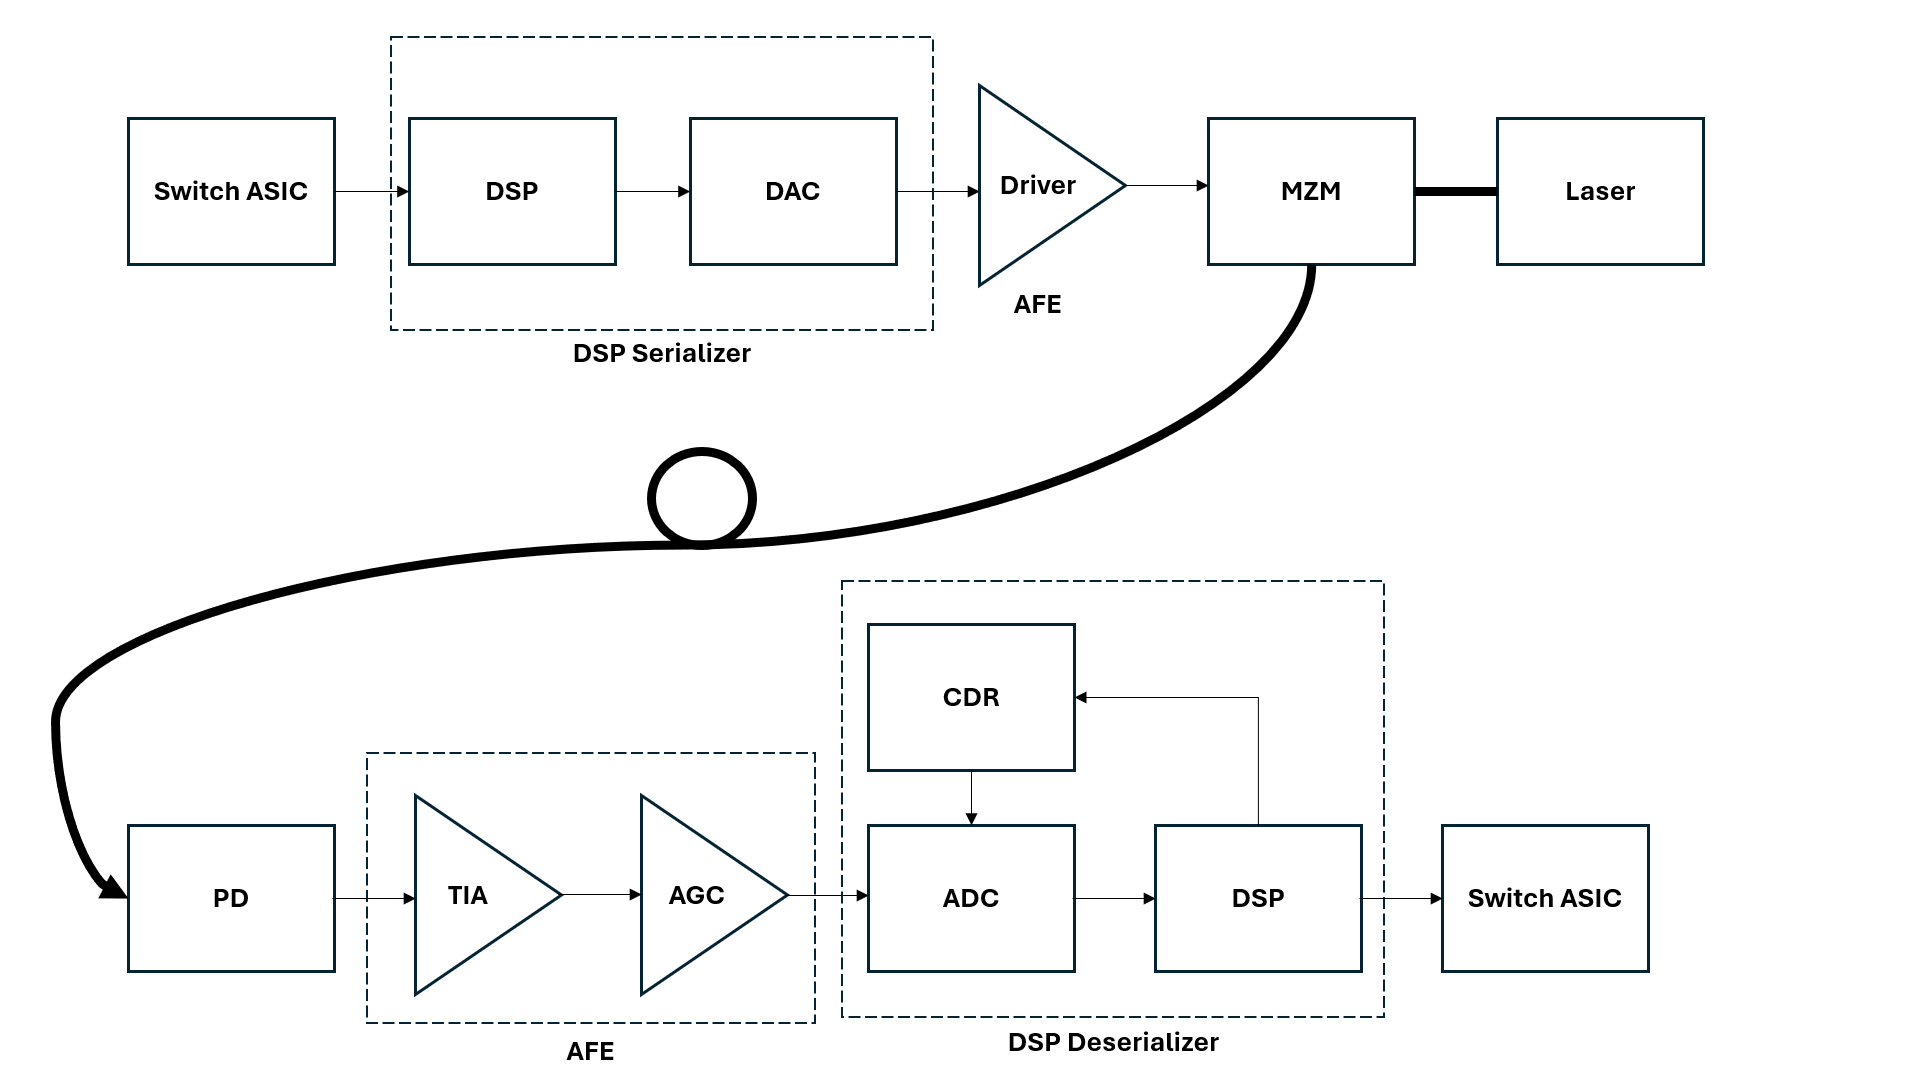
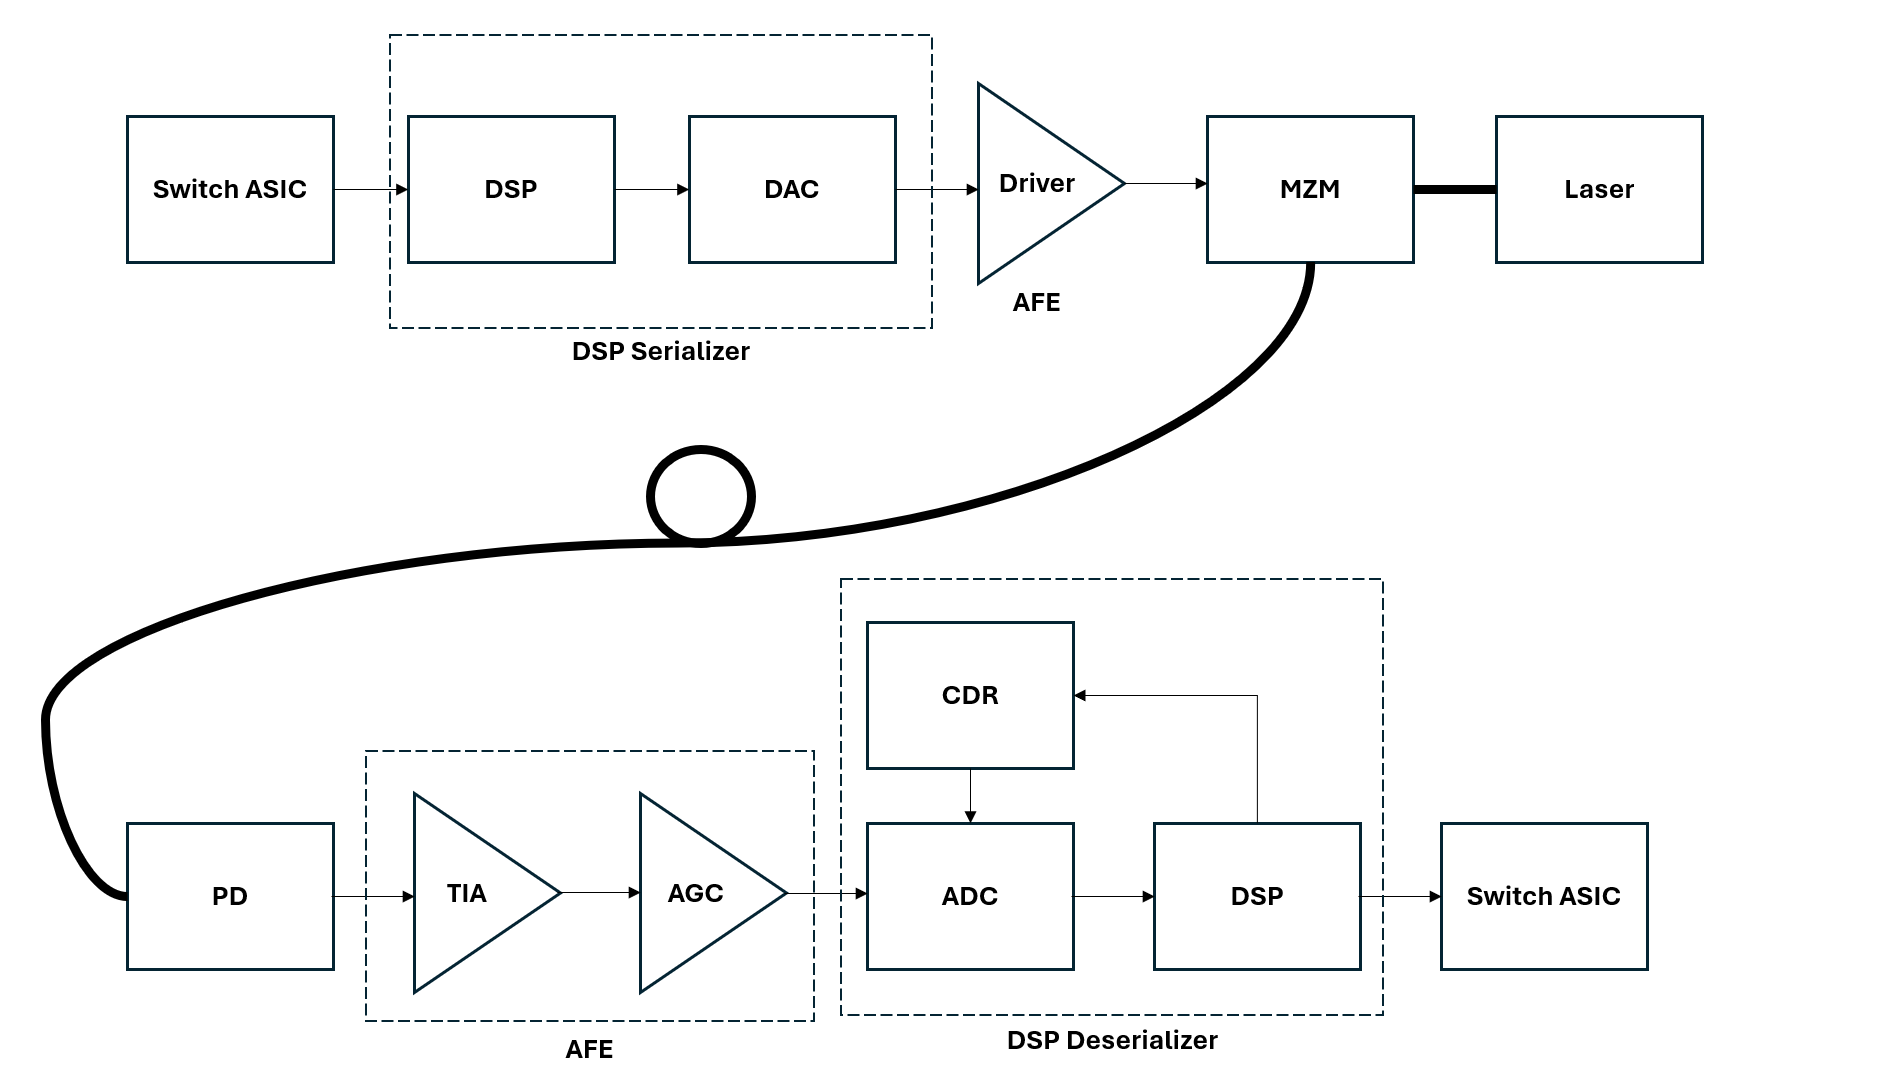
Minor fixes for render

diff --git a/README.md b/README.md
@@ -20,7 +20,8 @@ This repository contains the system architecture and open-source EDA tapeout fil
 ## 2. The Data Journey: The Case for EPCD
 To understand why this specific SiGe architecture is required, one must trace the complete lifecycle of the data through the network rack.
 
-![ADC: Analog-to-digital converter, AFE: Analog Front-End, AGC: Automatic Gain Control, ASIC: Application-specific integrated circuit, CDR: Clock data recovery, DAC: Digital-to-analog converter, DSP: Digital signal processing, MZM: Mach–Zehnder modulator, PD: Photodiode, TIA: Transimpedance amplifier](./static/OC_system.png)
+![Fig1_Architecture](./static/OC_system.png)
+*Figure 1: ADC: Analog-to-digital converter, AFE: Analog Front-End, AGC: Automatic Gain Control, ASIC: Application-specific integrated circuit, CDR: Clock data recovery, DAC: Digital-to-analog converter, DSP: Digital signal processing, MZM: Mach–Zehnder modulator, PD: Photodiode, TIA: Transimpedance amplifier*
 
 
 
